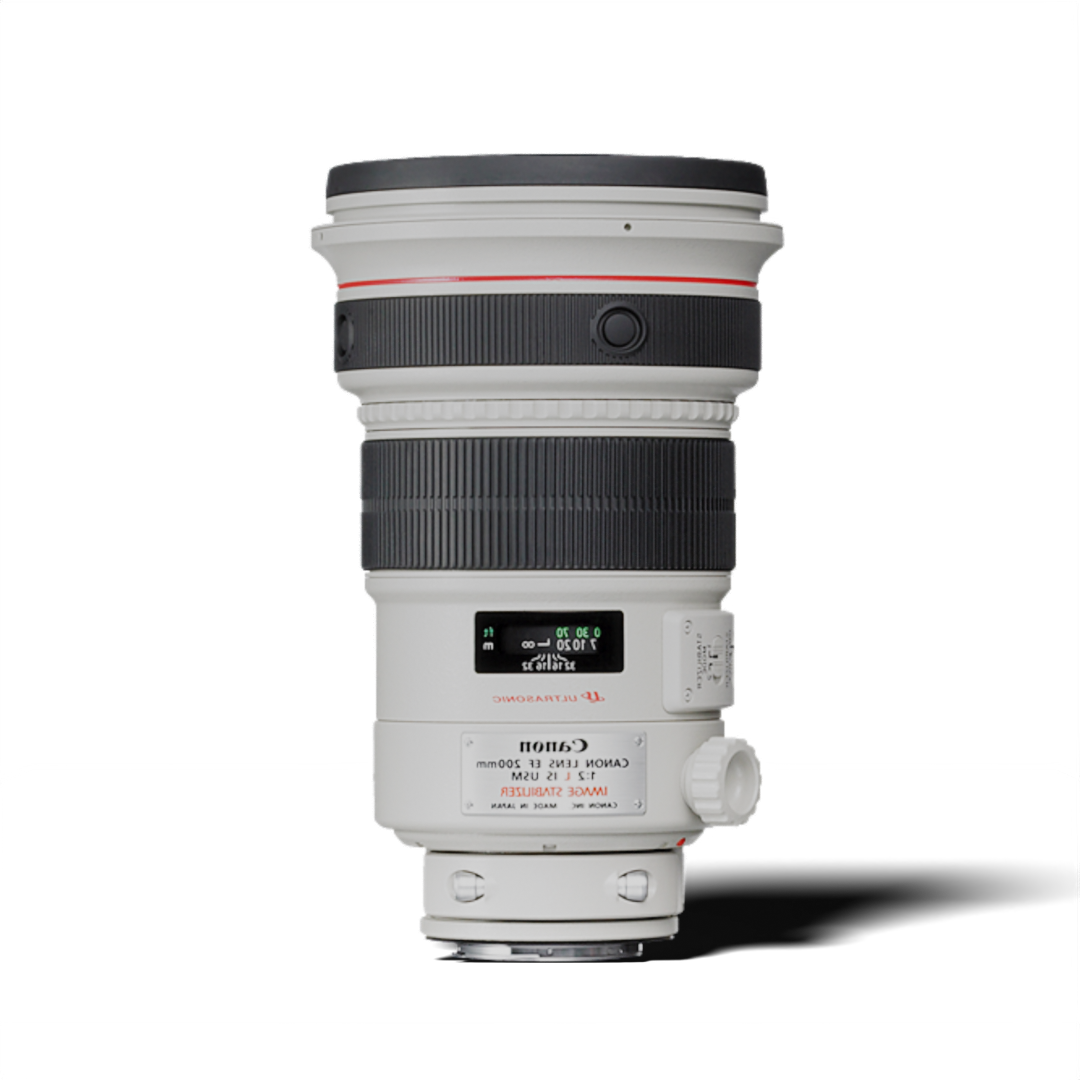
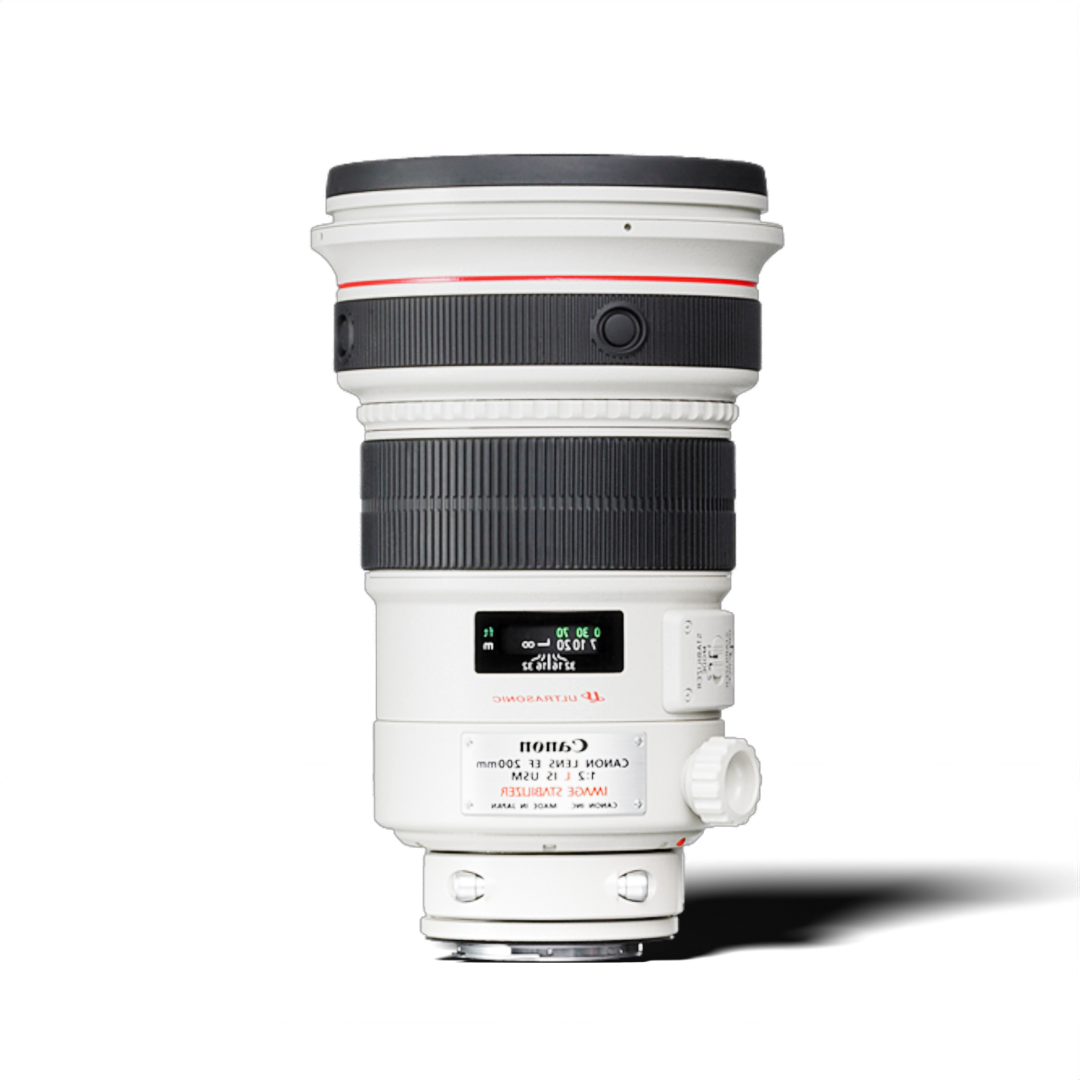
Some tweaks

Changed region(s): [[0.3361, 0.4583, 0.7028, 0.9167], [0.275, 0.1528, 0.7333, 0.275], [0.3056, 0.3361, 0.7028, 0.4278]]

diff --git a/client/src/components/IndividualProduct/IndProduct.js b/client/src/components/IndividualProduct/IndProduct.js
@@ -1,21 +1,50 @@
 import React, {useState, useEffect} from 'react';
 import { Container, Row, Col } from 'react-bootstrap';
+import {Link} from 'react-router-dom';
 
 const IndProduct = () => {
+
+    const data = [
+        {id: 0, name: "Hello"},
+        {id: 1, name: "Susan"},
+        {id: 2, name: "Tim"}
+    ]
+    
+    const [slideIndex, setSlideIndex] = useState(1);
+    const moveDot = i => {
+        setSlideIndex(i);
+    }
+
     return (
         <Row className="SliderSec">
             <Col className="CartConParent" md={12}>
                 <div className="CartContainer">
                     <Row>
                         <Col className="Product-Visual-Side" md={7}>
-                        <div className="BackIcon"></div>
-                            <div className="IndProductImage"></div>
+                            <Link to="/AllProducts"><div className="BackIcon"></div></Link>
+                            <div className='Product_Name'><h1>Canon EF 200mm f2</h1></div>
+                            <div className="IndProductImage">
+                            </div>
+                            <div className="ImageConDots">
+                                {data.map((obj, i) => {
+                                    return (
+                                        <div key={obj.id} onClick={() => moveDot (i + 1)} className={slideIndex === i + 1 ? "dot active" : "dot"}>
+                                        </div>
+                                    )
+                                })}
+                            </div>
                         </Col>
 
                         <Col className="ProductDetail" md={5}>
                             <h1>Details</h1>
                             <div className="ProductDescript"><p>orem ipsum dolor sit rem ipsum dolor sit rem ipsum dolor sit amet. Ea maxime recusandae in voluptatem quia et voluptatibus consequatur qui galisum impedit vel magni illum qui numquam tenetur est ipsam veniam. Vel repellendus mol</p></div>
-                            <h1>Colors</h1>
+                            <h1 className="Left">Colors</h1>
+                            <h1 className="PriceText">R3499</h1>
+                            <div className='ColorBlocks'>
+                                <div className='Block_One'></div>
+                                <div className='Block_One'></div>
+                                <div className='Block_One'></div>
+                            </div>
                         </Col>
                     </Row>
                 </div>

diff --git a/client/src/components/IndividualProduct/IndProduct.scss b/client/src/components/IndividualProduct/IndProduct.scss
@@ -5,8 +5,11 @@
 }
 
 .Product-Visual-Side{
+    float: left;
     padding-top: 30px;
     padding-left: 45px;
+    height: 90vh;
+    background-color: $primary_dark;
 }
 
 .ProductDetail{
@@ -26,12 +29,56 @@
 
 .IndProductImage{
     width: 100%;
-    height: 80vh;
-    background-color: white;
+    height: 70vh;
+    background-image: url('../../img/Canon\ EF\ 200mm\ f2\ L\ IS\ USM\ Lens.png');
+    background-position: center;
+    background-size: 75%;
+    margin-top: 5%;
+    background-repeat: no-repeat;
 }
 
 .ProductDescript{
     height: 20vh;
     width: 100%;
     margin-bottom: 5vh;
+}
+
+.BackIcon{
+    margin-top: 2px;
+    margin-right: 20px;
+    width: 20px;
+    height: 20px;
+    background-image: url('../../img/BackArrow.svg');
+    color: white !important;
+    background-position: center;
+    background-size: cover;
+    background-repeat: no-repeat;
+}
+
+.Product_Name h1{
+    float: left;
+    width: 100%;
+    padding: 20px;
+    text-align: center;
+    font-weight: bold;
+    color: white;
+}
+
+.ColorBlocks{
+    width: 350px;
+    height: 65px;
+    display: flex;
+}
+
+.Block_One{
+    background-color: white;
+    width: 50px;
+    height: 50px;
+    margin-right: 25px;
+}
+
+.PriceText{
+    margin-left: 80%;
+    font-weight: bold;
+    font-style: italic;
 }

diff --git a/client/src/components/Landing/Landing.scss b/client/src/components/Landing/Landing.scss
@@ -37,7 +37,7 @@
     width: 385px;
     background-image: url('../../img/Canon\ EF\ 200mm\ f2\ L\ IS\ USM\ Lens.png');
     background-position: center;
-    background-size: contain;
+    background-size: 65%;
     background-repeat: no-repeat;
 }
 
@@ -109,3 +109,35 @@
   .dot.active {
     background-color: $red;
   }
+
+
+.brandImgOne{
+  width: 300px;
+  height: 300px;
+  margin-left: 30px;
+  margin-right: 30px;
+  margin-bottom: 50px;
+  background-color: white;
+  // box-shadow: 0px 2px 6px rgba(0, 0, 0, 0.25);
+}
+
+.Nikon{
+  background-image: url('../../img/nikon-logo-removebg-preview.png');
+  background-size: contain;
+  background-position: center;
+  background-repeat: no-repeat;
+}
+
+.Canon{
+  background-image: url('../../img/canon-logo-removebg-preview.png');
+  background-size: contain;
+  background-position: center;
+  background-repeat: no-repeat;
+}
+
+.Sony{
+  background-image: url('../../img/sony-logo-removebg-preview.png');
+  background-size: contain;
+  background-position: center;
+  background-repeat: no-repeat;
+}

diff --git a/client/src/components/subcomponents/ProductCard.js b/client/src/components/subcomponents/ProductCard.js
@@ -1,17 +1,18 @@
 import React from 'react';
 import { Container, Row, Col } from 'react-bootstrap';
 import { useNavigate } from "react-router-dom";
+import {Link} from 'react-router-dom';
 
 const ProductCard = (props) => {
 
     const ProductNavigate = useNavigate();
 
     return (
-        <div onClick={() => ProductNavigate('../', { replace: true })} className="product-card">
+        <div onClick={() => ProductNavigate('/IndProduct', { replace: true })} className="product-card">
             <Row>
                 <div className="product-image"><div className='hoverProduct'>
                     <div className="hoverButt">Add to Cart</div>  
-                    <div className="hoverButt">View</div>      
+                    <div className="hoverButt">View</div>  
                 </div></div>
                 <Col className="productText" md={{span: 5, offset: 1}}>Canon 55mm</Col>
                 <Col className='productText' md={{span: 4, offset: 1}}><div className="productTextDiscount">R3,999</div><b>R3,999</b></Col>

diff --git a/client/src/components/Landing/Brands.js b/client/src/components/Landing/Brands.js
@@ -7,9 +7,9 @@ const Brands = () => {
         <Row className="SaleSec">
             <Col md={{span: 12}}><h2 className="txtCenter txtGrayDark italics">Our Brands</h2></Col>
             <Col md={10} className='brandsSec'>
-                <div className="brandImgOne"></div>
-                <div className="brandImgOne"></div>
-                <div className="brandImgOne"></div>
+                <div className="brandImgOne Nikon"></div>
+                <div className="brandImgOne Canon"></div>
+                <div className="brandImgOne Sony"></div>
             </Col>
         </Row>
     );

diff --git a/client/src/components/subcomponents/Subcomponents.scss b/client/src/components/subcomponents/Subcomponents.scss
@@ -105,15 +105,6 @@
     justify-content: center !important;
 }
 
-.brandImgOne{
-    width: 300px;
-    height: 300px;
-    background-color: black;
-    margin-left: 30px;
-    margin-right: 30px;
-    margin-bottom: 50px;
-}
-
 .Footer{
     height: 75px;
     padding-left: 25px;
@@ -214,4 +205,7 @@
     color: black !important;    
 }
 
+.Left{
+    float: left;
+}
 

diff --git a/client/src/components/Cart/Cart.scss b/client/src/components/Cart/Cart.scss
@@ -62,14 +62,3 @@
     font-size: 18px;
     text-align: right;
 }
-
-.BackIcon{
-    margin-top: 2px;
-    margin-right: 20px;
-    width: 20px;
-    height: 20px;
-    background-image: url('../../img/BackArrow.svg');
-    background-position: center;
-    background-size: cover;
-    background-repeat: no-repeat;
-}

diff --git a/client/src/components/Landing/Landing.js b/client/src/components/Landing/Landing.js
@@ -10,7 +10,7 @@ const Landing = () => {
     const data = [
         {id: 0, name: "Hello"},
         {id: 1, name: "Susan"},
-        {id: 2, name: "Tjm"}
+        {id: 2, name: "Tim"}
     ]
 
     const [slideIndex, setSlideIndex] = useState(1);
